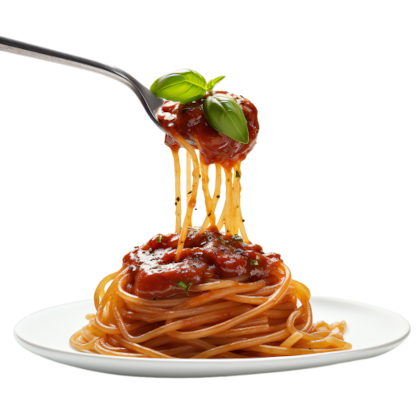
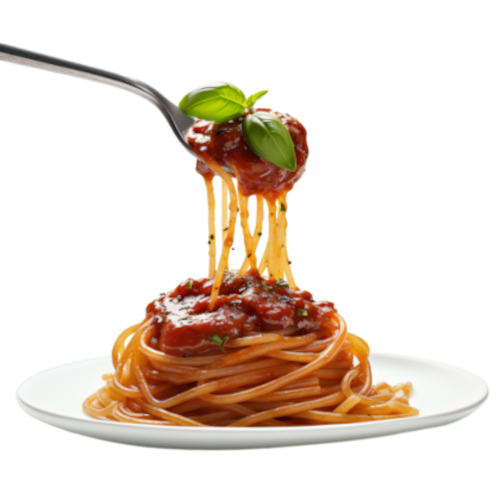
finalização do hero

diff --git a/src/componentes/Hero/index.js b/src/componentes/Hero/index.js
@@ -8,14 +8,10 @@ const ContainerHero = styled.section`
     display: flex;
     flex-direction: row;
     align-items: center;
-    justify-content: flex-end;
+    justify-content: space-between;
     gap: 1em;
-    padding: var(--margin-y) var(--margin-x) var(--margin-y) 0;
+    padding: 6em var(--margin-x) var(--margin-y) 0;
     box-sizing: border-box;
-
-    @media (min-width: 768px) and (max-width: 1279px) {
-        gap: 4em;
-    }
 `
 
 const BgImg = styled.div`
@@ -24,12 +20,13 @@ const BgImg = styled.div`
     justify-content: end;
     position: relative;
     box-sizing: border-box;
+    width: 35%;
 
     .bgHero {
         position: absolute;
         top: 0;
         left: 0;
-        width: 60%;
+        width: 50%;
         height: 100%;
         background-color: var(--marrom-claro);
         border-radius: 0 20% 20% 0;
@@ -41,12 +38,25 @@ const BgImg = styled.div`
         max-width: 100%;
         height: auto;
         z-index: 1;
-        // padding-left: 1em;
+        padding-left: 1em;
         filter: drop-shadow(0 12px 12px var(--color-shadow));
     }
 
     @media (min-width: 768px) and (max-width: 1279px) {
-        
+        width: 45%;
+
+        .bgHero {
+            width: 60%;
+        }
+    }
+
+    @media (min-width: 1280px) {
+        width: 70%;
+        justify-content: center;
+
+        .bghero {
+            width: 70%;
+        }
     }
 `
 
@@ -78,6 +88,30 @@ const TextosHero = styled.article`
         font-weight: bold;
         display: inline-block;
     }
+
+    @media (min-width: 768px) and (max-width: 1279px) {
+        h1 {
+            font-size: var(--h1-tablet);
+            max-width: 340px
+        }
+
+        h2 {
+            font-size: var(--p-tablet);
+            max-width: 340px
+        }
+    }
+
+    @media (min-width: 1280px) {
+        h1 {
+            font-size: 2.5em;
+            max-width: 500px
+        }
+
+        h2 {
+            font-size: 1.5em;
+            max-width: 450px
+        }
+    }
 `
 
 const BotoesHero = styled.div`
@@ -96,7 +130,8 @@ const Hero = () => {
                 <div className='bgHero'></div>
                 <div className='imgHero'>
                     <picture>
-                        <source srcSet={`${process.env.PUBLIC_URL}/img/img-hero.png`} media='(min-width: 1024px)'/>
+                        <source srcSet={`${process.env.PUBLIC_URL}/img/img-hero-tablet.png`} media='(min-width: 768px) and (max-width: 1279px)'/>
+                        <source srcSet={`${process.env.PUBLIC_URL}/img/img-hero.png`} media='(min-width: 1280px)'/>
                         <img loading='lazy' src={`${process.env.PUBLIC_URL}/img/img-hero-mobile.png`} alt='foto de um prato de macarronada, com um garfo levantando um pouco da comida' />
                     </picture>
                 </div>
